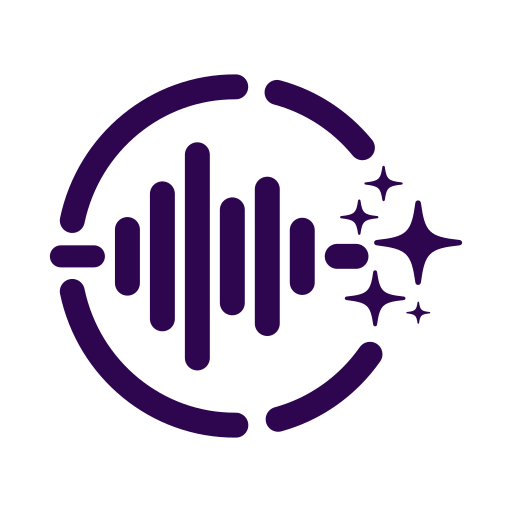
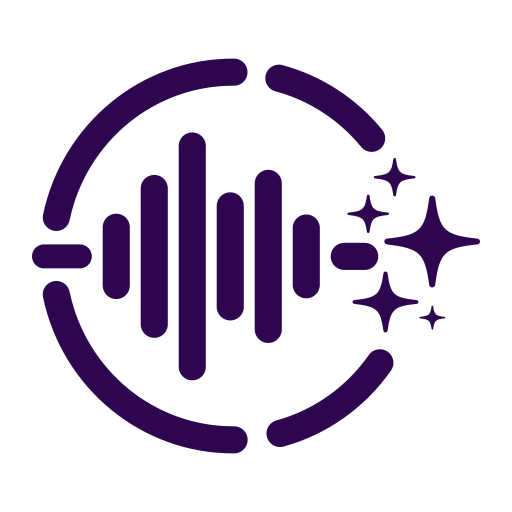
Update integration branding and package versions to 0.2.1

Changed region(s): [[0.0625, 0.0938, 0.9375, 0.9062]]

diff --git a/scripts/package-integrations.py b/scripts/package-integrations.py
@@ -5,10 +5,10 @@ from pathlib import Path
 ROOT = Path(__file__).resolve().parents[1]
 OUT = ROOT / "artifacts"
 TARGETS = {
-    "orbitali-openai-desktop-0.2.0": "openai",
-    "orbitali-openai-submission-0.2.0": "openai-submission/orbitali",
-    "orbitali-claude-marketplace-0.2.0": "claude",
-    "orbitali-gemini-extension-0.2.0": "gemini/orbitali",
+    "orbitali-openai-desktop-0.2.1": "openai",
+    "orbitali-openai-submission-0.2.1": "openai-submission/orbitali",
+    "orbitali-claude-marketplace-0.2.1": "claude",
+    "orbitali-gemini-extension-0.2.1": "gemini/orbitali",
 }
 SECRET = re.compile(rb"(?:sk_(?:live|test)_[A-Za-z0-9]{16,}|orb_(?:oat|ort|mi|sk)_[A-Za-z0-9_-]{20,}|-----BEGIN [A-Z ]*PRIVATE KEY-----)")
 def inspect(files):
@@ -31,7 +31,7 @@ def inspect(files):
                 ext = doc["extensions"]["com.openai"]
                 assert len(ext["review"]["test_cases"]["positive"]) == 5
                 assert len(ext["review"]["test_cases"]["negative"]) == 3
-                assert doc["name"] == "orbitali" and doc["version"] == "0.2.0"
+                assert doc["name"] == "orbitali" and doc["version"] == "0.2.1"
                 for key in ["logo", "logoDark", "composerIcon", "composerIconDark"]:
                     image = str(path.parent / ext["interface"][key])
                     assert image in files, f"Missing icon {image}"

diff --git a/integrations/INSTALL.md b/integrations/INSTALL.md
@@ -1,13 +1,14 @@
 # Orbitali host installation
 
-Version 0.2.0, prepared 2026-10-23. Production OAuth is not deployed by this change.
+Version 0.2.1, prepared 2026-10-23. This release updates branding and listing copy.
+Production OAuth is not deployed by this change.
 Deploy compatible authorization services and MCP changes first. Every release package
 uses `https://mcp.orbitali.ai/mcp`. Local testing used copies pointing at localhost;
 no localhost endpoint or credential is shipped. See [verification](HOST-TESTS.md).
 
 ## ChatGPT / Codex desktop
 
-Extract `orbitali-openai-desktop-0.2.0.zip` to a permanent directory. Add that directory
+Extract `orbitali-openai-desktop-0.2.1.zip` to a permanent directory. Add that directory
 as a local marketplace using Codex's Plugins marketplace UI, or on a CLI exposing the
 plugin commands:
 
@@ -33,7 +34,7 @@ installation is not a cloud ChatGPT connector test. Cloud hosts need a reachable
 
 ## Claude Code
 
-Extract `orbitali-claude-marketplace-0.2.0.zip`, then:
+Extract `orbitali-claude-marketplace-0.2.1.zip`, then:
 
 ```sh
 rtk claude plugin validate /absolute/path/to/extracted-claude-package/orbitali
@@ -63,7 +64,7 @@ Public connector and plugin submissions are separate links on the
 
 ## Gemini CLI
 
-Extract `orbitali-gemini-extension-0.2.0.zip`; `gemini-extension.json` is at its root:
+Extract `orbitali-gemini-extension-0.2.1.zip`; `gemini-extension.json` is at its root:
 
 ```sh
 rtk gemini extensions install /absolute/path/to/extracted-gemini-package

diff --git a/integrations/claude/orbitali/README.md b/integrations/claude/orbitali/README.md
@@ -1,8 +1,11 @@
-# Orbitali 0.2.0
+# Orbitali 0.2.1
 
 Connect to `https://mcp.orbitali.ai/mcp` after the OAuth server release is deployed.
 Sign in to Orbitali, select your organization, review scopes and approve or deny.
 Disconnect in Orbitali Settings → Connected applications. Never paste API keys into chat.
+
+An Orbitali account is required. Sign up on the Orbitali platform, where the optional
+free trial and billing are handled. The plugin does not process payments.
 
 Read the bundled manage-voice-agents skill before mutations. New agents should remain
 drafts until explicitly activated. Confirm destructive changes and phone reassignment.

diff --git a/integrations/gemini/orbitali/README.md b/integrations/gemini/orbitali/README.md
@@ -1,8 +1,11 @@
-# Orbitali 0.2.0
+# Orbitali 0.2.1
 
 Connect to `https://mcp.orbitali.ai/mcp` after the OAuth server release is deployed.
 Sign in to Orbitali, select your organization, review scopes and approve or deny.
 Disconnect in Orbitali Settings → Connected applications. Never paste API keys into chat.
+
+An Orbitali account is required. Sign up on the Orbitali platform, where the optional
+free trial and billing are handled. The plugin does not process payments.
 
 Read the bundled manage-voice-agents skill before mutations. New agents should remain
 drafts until explicitly activated. Confirm destructive changes and phone reassignment.

diff --git a/integrations/openai-submission/orbitali/README.md b/integrations/openai-submission/orbitali/README.md
@@ -1,8 +1,11 @@
-# Orbitali 0.2.0
+# Orbitali 0.2.1
 
 Connect to `https://mcp.orbitali.ai/mcp` after the OAuth server release is deployed.
 Sign in to Orbitali, select your organization, review scopes and approve or deny.
 Disconnect in Orbitali Settings → Connected applications. Never paste API keys into chat.
+
+An Orbitali account is required. Sign up on the Orbitali platform, where the optional
+free trial and billing are handled. The plugin does not process payments.
 
 Read the bundled manage-voice-agents skill before mutations. New agents should remain
 drafts until explicitly activated. Confirm destructive changes and phone reassignment.

diff --git a/integrations/openai/orbitali/README.md b/integrations/openai/orbitali/README.md
@@ -1,8 +1,11 @@
-# Orbitali 0.2.0
+# Orbitali 0.2.1
 
 Connect to `https://mcp.orbitali.ai/mcp` after the OAuth server release is deployed.
 Sign in to Orbitali, select your organization, review scopes and approve or deny.
 Disconnect in Orbitali Settings → Connected applications. Never paste API keys into chat.
+
+An Orbitali account is required. Sign up on the Orbitali platform, where the optional
+free trial and billing are handled. The plugin does not process payments.
 
 Read the bundled manage-voice-agents skill before mutations. New agents should remain
 drafts until explicitly activated. Confirm destructive changes and phone reassignment.
